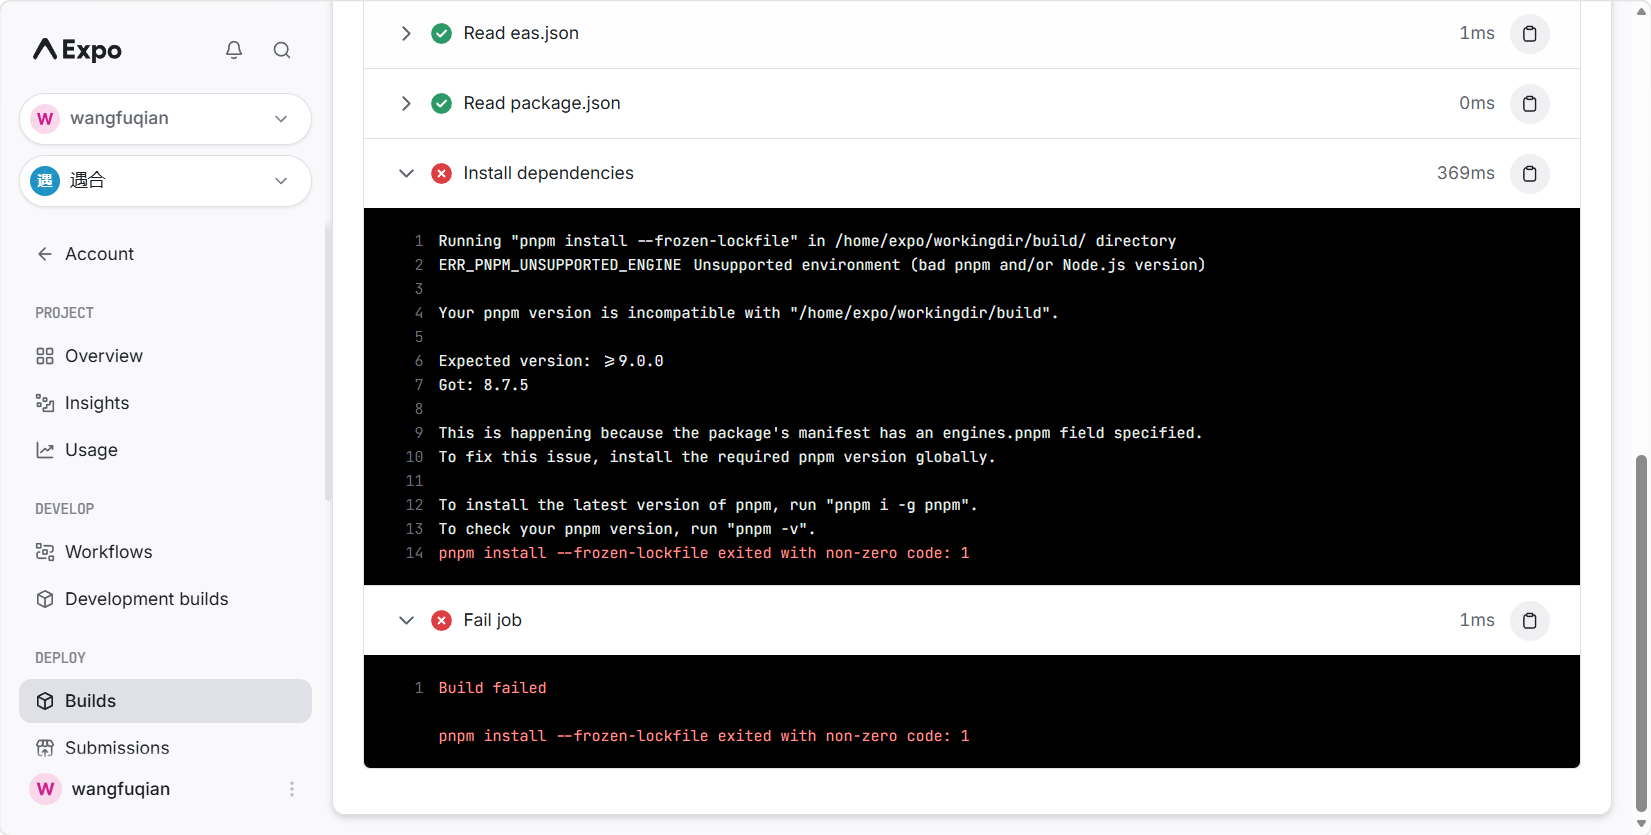
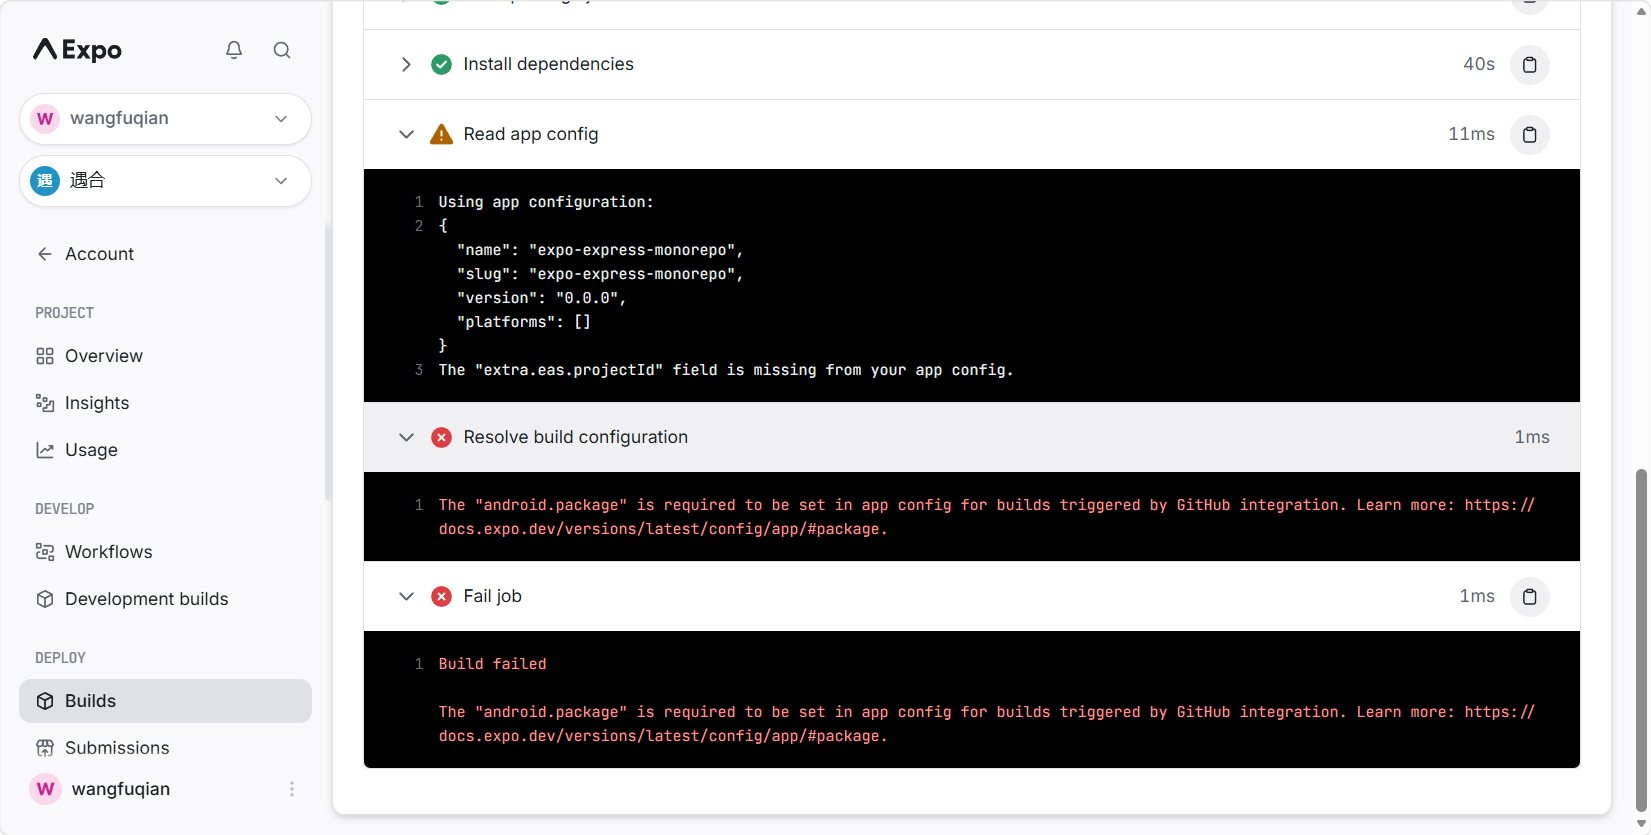
fix: 添加根目录 app.config.ts 修复构建配置缺失问题

diff --git a/app.config.ts b/app.config.ts
@@ -1,0 +1,96 @@
+import { ExpoConfig } from 'expo/config';
+
+// 根目录的 app.config.ts - 用于 EAS 构建
+// 这个配置会指向 client 目录下的实际项目
+
+const config: ExpoConfig = {
+  "name": "遇合",
+  "slug": "yuhe",
+  "version": "1.0.0",
+  "orientation": "portrait",
+  "icon": "./client/assets/images/icon.png",
+  "scheme": "yuhe",
+  "userInterfaceStyle": "light",
+  "newArchEnabled": true,
+  "ios": {
+    "bundleIdentifier": "com.yuhe.app",
+    "buildNumber": "1",
+    "supportsTablet": true,
+    "infoPlist": {
+      "CFBundleDisplayName": "遇合",
+      "CFBundleShortVersionString": "1.0.0",
+      "CFBundleVersion": "1",
+      "NSCameraUsageDescription": "需要访问相机以拍摄照片和视频，分享您的创业故事",
+      "NSPhotoLibraryUsageDescription": "需要访问相册以选择照片和视频，发布优质内容",
+      "NSPhotoLibraryAddUsageDescription": "需要保存图片到相册，方便您收藏精彩内容",
+      "NSMicrophoneUsageDescription": "需要访问麦克风以录制音频，支持语音功能"
+    }
+  },
+  "android": {
+    "adaptiveIcon": {
+      "foregroundImage": "./client/assets/images/adaptive-icon.png",
+      "backgroundColor": "#1677FF"
+    },
+    "package": "com.yuhe.app"
+  },
+  "web": {
+    "bundler": "metro",
+    "output": "single",
+    "favicon": "./client/assets/images/favicon.png"
+  },
+  "splash": {
+    "image": "./client/assets/images/splash-icon.png",
+    "resizeMode": "contain",
+    "backgroundColor": "#1677FF"
+  },
+  "plugins": [
+    "expo-router",
+    [
+      "expo-splash-screen",
+      {
+        "image": "./client/assets/images/splash-icon.png",
+        "imageWidth": 200,
+        "resizeMode": "contain",
+        "backgroundColor": "#ffffff"
+      }
+    ],
+    [
+      "expo-image-picker",
+      {
+        "photosPermission": "允许遇合访问您的相册，以便您上传图片分享创业经验",
+        "cameraPermission": "允许遇合使用您的相机，以便您直接拍摄照片上传",
+        "microphonePermission": "允许遇合访问您的麦克风，以便您拍摄带有声音的视频"
+      }
+    ],
+    [
+      "expo-location",
+      {
+        "locationWhenInUsePermission": "遇合需要访问您的位置以提供周边创业资源和服务"
+      }
+    ],
+    [
+      "expo-camera",
+      {
+        "cameraPermission": "遇合需要访问相机以拍摄照片和视频",
+        "microphonePermission": "遇合需要访问麦克风以录制视频声音",
+        "recordAudioAndroid": true
+      }
+    ],
+    [
+      "expo-av",
+      {
+        "microphonePermission": "遇合需要访问麦克风以录制音频内容"
+      }
+    ]
+  ],
+  "experiments": {
+    "typedRoutes": true
+  },
+  "extra": {
+    "eas": {
+      "projectId": "d595b377-5b13-4f09-a464-f858d9ea9a8e"
+    }
+  }
+};
+
+export default config;
